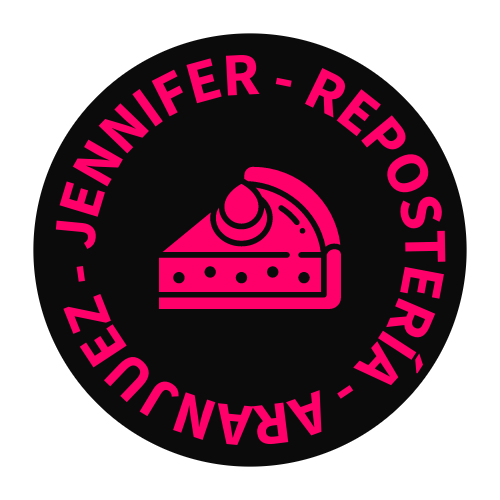
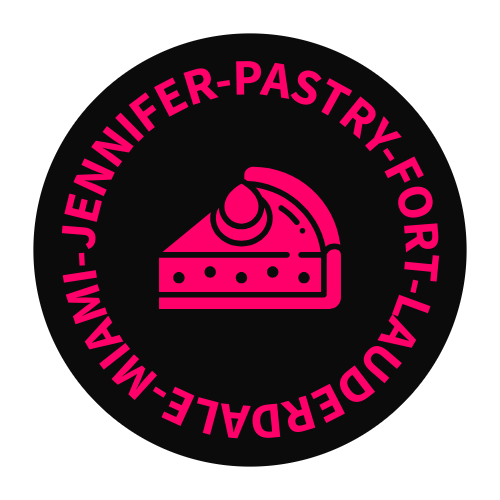
English v1

Changed region(s): [[0.12, 0.09, 0.9, 0.9]]

diff --git a/index.html b/index.html
@@ -8,7 +8,7 @@
         <link rel="stylesheet" type="text/css" href="index.css">
     </head>
     <body>
-        <h1 class="titulo">CARTA DE POSTRES</h1>
+        <h1 class="titulo">DESSERT MENU</h1>
         <img class="logo" src="./img/icono.png">
         <h3><em>Jennifer Toro Agudelo</em></h3>
         <br>
@@ -18,8 +18,8 @@
                 <img src="./img/1.jpg" alt="Imagen">
             </div>
             <div class="texto">
-                <h2 class="titulo">Tarta de las tres leches</h2>
-                <p>Tarta clásica que combina un tierno bizcocho con una mezcla de tres tipos de leches. Esta Tarta es conocido por su textura húmeda y su sabor dulce y cremoso.</p>
+                <h2 class="titulo">Three Milks Cake</h2>
+                <p>Classic cake that combines a soft sponge soaked in a mix of three types of milk. Known for its moist texture and sweet, creamy flavor.</p>
             </div>
         </div>
         <!-- P2 -->
@@ -28,8 +28,8 @@
                 <img src="./img/2.jpg" alt="Imagen">
             </div>
             <div class="texto">
-                <h2 class="titulo">Tarta trufada de chocolate</h2>
-                <p>Deliciosa tarta que combina capas de bizcocho con una abundante mezcla de trufa de chocolate. Experimentarás la suavidad del bizcocho y el rico sabor a chocolate en cada bocado. Una gran opción para aquellos que buscan disfrutar de un postre clásico con el irresistible toque de la trufa.</p>
+                <h2 class="titulo">Chocolate Truffle Cake</h2>
+                <p>Delicious cake that combines layers of sponge with an abundant mixture of chocolate truffle. You will experience the softness of the sponge and the rich chocolate flavor in every bite. A great option for those who want to enjoy a classic dessert with the irresistible touch of truffle.</p>
             </div>
         </div>
         <!-- P3 -->
@@ -38,8 +38,8 @@
                 <img src="./img/3.jpg" alt="Imagen">
             </div>
             <div class="texto">
-                <h2 class="titulo">Tarta victoria sponge cake</h2>
-                <p>Tarta que consiste en dos capas de esponjoso bizcocho, unidas por una capa de crema y mermelada.</p>
+                <h2 class="titulo">Victoria Sponge Cake</h2>
+                <p>A cake made of two layers of fluffy sponge joined by a layer of cream and jam.</p>
             </div>
         </div>
         <!-- P4 -->
@@ -48,8 +48,8 @@
                 <img src="./img/4.jpg" alt="Imagen">
             </div>
             <div class="texto">
-                <h2 class="titulo">Tarta selva negra</h2>
-                <p>Tarta tradicional que presenta capas de bizcocho de chocolate, rellenas de crema de cereza y cubiertas con crema batida y virutas de chocolate. La combinación de sabores intensos del chocolate y la frescura de las cerezas crea una experiencia deliciosa. Cada bocado revela la perfecta armonía entre lo dulce y lo afrutado, haciendo de esta tarta un clásico irresistible para los amantes del chocolate y las frutas.</p>
+                <h2 class="titulo">Black Forest Cake</h2>
+                <p>Traditional cake featuring layers of chocolate sponge filled with cherry cream and topped with whipped cream and chocolate shavings. The intense combination of chocolate flavors and the freshness of the cherries creates a delicious experience. Each bite reveals the perfect harmony between sweet and fruity, making this cake an irresistible classic for chocolate and fruit lovers.</p>
             </div>
         </div>
         <!-- P5 -->
@@ -58,8 +58,8 @@
                 <img src="./img/5.jpg" alt="Imagen">
             </div>
             <div class="texto">
-                <h2 class="titulo">Tarta sacher</h2>
-                <p>Tarta que se caracteriza por la experiencia equilibrada entre lo dulce y amargo y  su gran particularidad es que no es húmeda pero el toque a albaricoque que se encuentra entre sus dos capas se complementa perfectamente y además lo cubrimos con un glaseado espejo de chocolate y decoramos con chocolate al rededor.</p>
+                <h2 class="titulo">Sachertorte (Sacher Cake)</h2>
+                <p>Cake characterized by a balanced experience between sweet and bitter. Its great particularity is that it is not moist, but the touch of apricot found between its two layers complements it perfectly. In addition, we cover it with a chocolate mirror glaze and decorate it with chocolate around it.</p>
             </div>
         </div>
         <!-- P6 -->
@@ -68,8 +68,8 @@
                 <img src="./img/6.jpg" alt="Imagen">
             </div>
             <div class="texto">
-                <h2 class="titulo">Tarta red velvet</h2>
-                <p>El un bizcocho rojo intenso con sabor a vainilla o chocolate que está dividido en capas rellenas de crema o crema de queso.</p>
+                <h2 class="titulo">Red Velvet Cake</h2>
+                <p>It is an intensely red sponge cake with vanilla or chocolate flavor that is divided into layers filled with cream or cream cheese frosting.</p>
             </div>
         </div>
         <!-- P7 -->
@@ -78,8 +78,8 @@
                 <img src="./img/7.jpg" alt="Imagen">
             </div>
             <div class="texto">
-                <h2 class="titulo">Tarta carrot cake 🕸🕷</h2>
-                <p>Un postre clásico que presenta un bizcocho jugoso hecho con zanahorias ralladas, nueces y especias, cubierto con una suave capa de glaseado de queso crema.</p>
+                <h2 class="titulo">Carrot Cake 🕸🕷</h2>
+                <p>A classic dessert featuring a moist sponge made with grated carrots, nuts, and spices, covered with a smooth layer of cream cheese frosting.</p>
             </div>
         </div>
         <!-- P8 -->
@@ -88,8 +88,8 @@
                 <img src="./img/8.jpg" alt="Imagen">
             </div>
             <div class="texto">
-                <h2 class="titulo">Tarta de queso de la Viña</h2>
-                <p>Un postre extraordinario que se distingue por su sencillez y calidad.</p>
+                <h2 class="titulo">Basque Cheesecake (La Viña Style)</h2>
+                <p>An extraordinary dessert distinguished by its simplicity and quality.</p>
             </div>
         </div>
         <!-- P9 -->
@@ -98,8 +98,8 @@
                 <img src="./img/9.jpg" alt="Imagen">
             </div>
             <div class="texto">
-                <h2 class="titulo">Postre de Mini Tiramisú</h2>
-                <p>Este clásico postre italiano de capas de bizcocho entremezclado con una crema suave de mascarpone y crema batida.</p>
+                <h2 class="titulo">Mini Tiramisu Dessert</h2>
+                <p>This classic Italian dessert features layers of sponge mixed with a soft mascarpone and whipped cream filling.</p>
             </div>
         </div>
         <!-- P10 -->
@@ -108,8 +108,8 @@
                 <img src="./img/10.jpg" alt="Imagen">
             </div>
             <div class="texto">
-                <h2 class="titulo">Entremet de frutos rojos</h2>
-                <p>Tarta de alta repostería que combina un brownie blanco con una capa de frutos rojos sumergidos en una deliciosa mezcla y cubierto con una fina capa de glaseado espejo de chocolate.</p>
+                <h2 class="titulo">Red Berry Entremet</h2>
+                <p>High pastry cake that combines a white brownie with a layer of red berries immersed in a delicious mixture and covered with a fine layer of chocolate mirror glaze.</p>
             </div>
         </div>
         <!-- P11 -->
@@ -118,8 +118,8 @@
                 <img src="./img/11.jpg" alt="Imagen">
             </div>
             <div class="texto">
-                <h2 class="titulo">Tarta geod cake</h2>
-                <p>Tarta de dos capas con abertura rellena de cristales de azúcar. Única, llamativa y deliciosa.</p>
+                <h2 class="titulo">Geode Cake</h2>
+                <p>Two-layer cake with an opening filled with sugar crystals. Unique, eye-catching, and delicious.</p>
             </div>
         </div>
         <!-- P12 -->
@@ -128,7 +128,7 @@
                 <img src="./img/12.jpg" alt="Imagen">
             </div>
             <div class="texto">
-                <h2 class="titulo">Galletas elegantes para fiestas</h2>
+                <h2 class="titulo">Elegant Party Cookies</h2>
             </div>
         </div>
         <!-- P13 -->
@@ -137,7 +137,7 @@
                 <img src="./img/13.jpg" alt="Imagen">
             </div>
             <div class="texto">
-                <h2 class="titulo">Galletas elegantes para fiestas</h2>
+                <h2 class="titulo">Elegant Party Cookies</h2>
             </div>
         </div>
         <!-- P14 -->
@@ -146,7 +146,7 @@
                 <img src="./img/14.jpg" alt="Imagen">
             </div>
             <div class="texto">
-                <h2 class="titulo">Galletas elegantes para fiestas</h2>
+                <h2 class="titulo">Elegant Party Cookies</h2>
             </div>
         </div>
         <!-- P19 -->
@@ -155,7 +155,7 @@
                 <img src="./img/19.jpg" alt="Imagen">
             </div>
             <div class="texto">
-                <h2 class="titulo">Galletas elegantes para fiestas</h2>
+                <h2 class="titulo">Elegant Party Cookies</h2>
             </div>
         </div>
         <!-- P15 -->
@@ -164,8 +164,8 @@
                 <img src="./img/15.jpg" alt="Imagen">
             </div>
             <div class="texto">
-                <h2 class="titulo">Pie de limón merengada</h2>
-                <p>Postre clásico de corteza de masa quebrada rellena de crema de limón y merengue. Dulce, ácido y refrescante.</p>
+                <h2 class="titulo">Lemon Meringue Pie</h2>
+                <p>Classic dessert with a shortcrust pastry base filled with lemon cream and meringue. Sweet, tangy, and refreshing.</p>
             </div>
         </div>
         <!-- P16 -->
@@ -174,8 +174,8 @@
                 <img src="./img/16.jpg" alt="Imagen">
             </div>
             <div class="texto">
-                <h2 class="titulo">Cheese cake americano de caramelo salado</h2>
-                <p>Tarta de queso cremosa y suave. Deliciosa y perfecta para cualquier ocasión.</p>
+                <h2 class="titulo">American Salted Caramel Cheesecake</h2>
+                <p>Creamy and smooth cheesecake. Delicious and perfect for any occasion.</p>
             </div>
         </div>
         <!-- P17 -->
@@ -184,8 +184,8 @@
                 <img src="./img/17.jpg" alt="Imagen">
             </div>
             <div class="texto">
-                <h2 class="titulo">Petit dome tropical</h2>
-                <p>Una pequeña cúpula de mousse de chocolate, con un interior de frutas tropicales, como mango, maracuyá y piña. Un postre refrescante y delicioso, perfecto para cualquier ocasión.</p>
+                <h2 class="titulo">Tropical Petit Dome</h2>
+                <p>A small dome of chocolate mousse with a center of tropical fruits such as mango, passion fruit, and pineapple. A refreshing and delicious dessert, perfect for any occasion.</p>
             </div>
         </div>
         <!-- Último Postre -->
@@ -194,17 +194,16 @@
                 <img src="./img/18.jpg" alt="Imagen">
             </div>
             <div class="texto">
-                <h2 class="titulo">Tarta en fondant</h2>
-                <p>Una deliciosa tarta con una cobertura de masa de azúcar moldeable y coloreable. Las tartas en fondant son ideales para ocasiones especiales, como cumpleaños, bodas o aniversarios.</p>
+                <h2 class="titulo">Fondant Cake</h2>
+                <p>A delicious cake with a coating of moldable and colorable sugar paste. Fondant cakes are ideal for special occasions such as birthdays, weddings, or anniversaries.</p>
             </div>
         </div>
         <br>
         <!-- Contacto -->
-        <h3>Para  informarse sobre los precios pongase en contacto conmigo.</h3>
-        <h1 class="titulo">Contacto</h1>
+        <h3>For information about prices, please contact me.</h3>
+        <h1 class="titulo">Contact</h1>
         <div class="contacto">
-        <p><span>CORREO:</span> <a href="mailto:jennifer.reposteria.aranjuez@gmail.com">jennifer.reposteria.aranjuez@gmail.com</a></p>
-        <p><span>TELÉFONO:</span> <a href="tel:+34635828998">+34 635 82 89 98</a></p>
+        <p><span>PHONE:</span> <a href="tel:+19547299785">+1 (954) 729-9785</a></p>
         </div>
         <br><br>
     </body>
